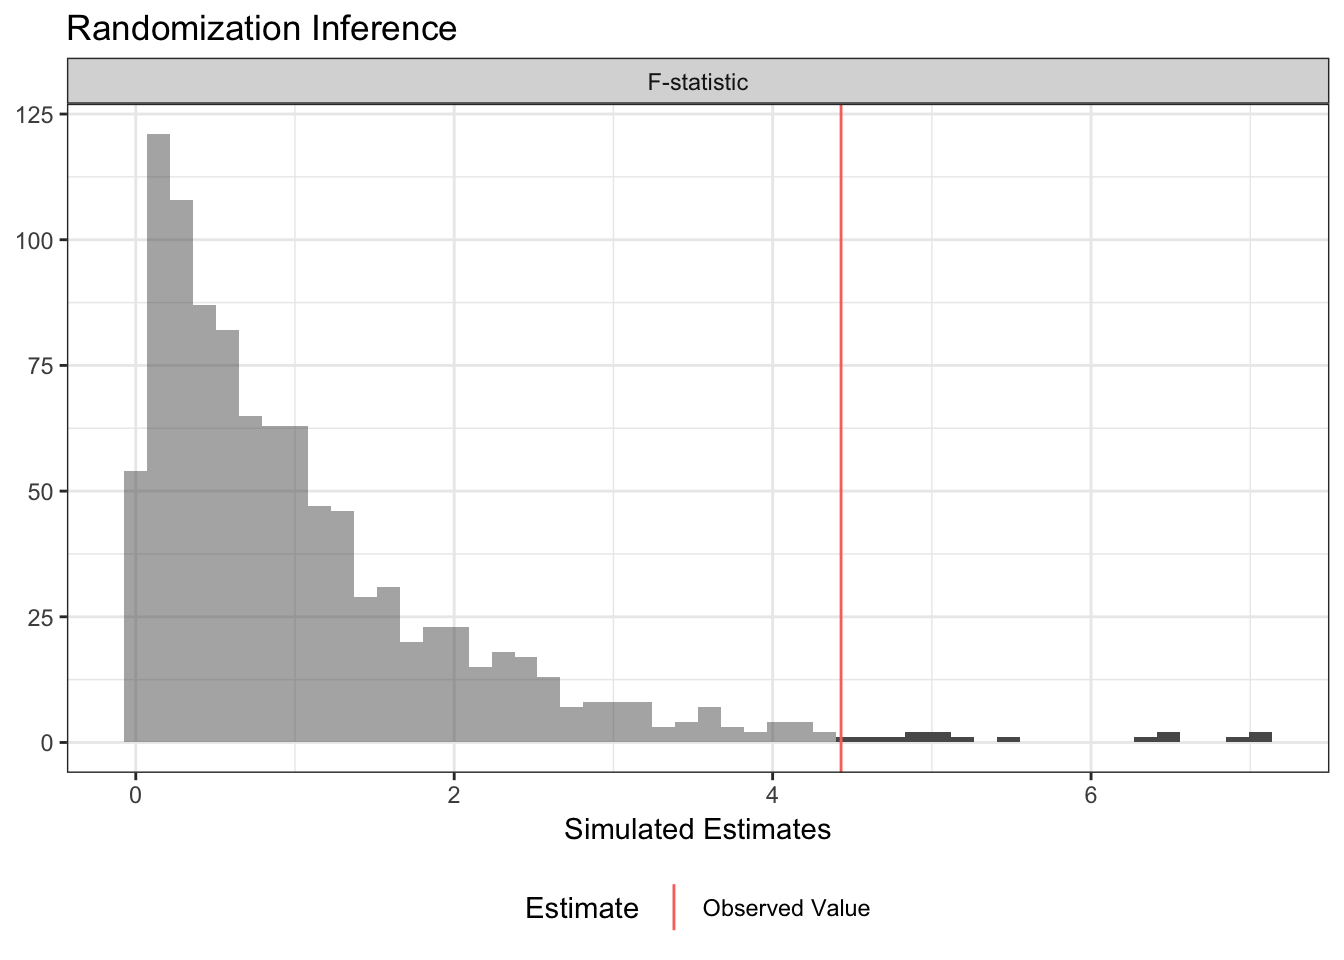
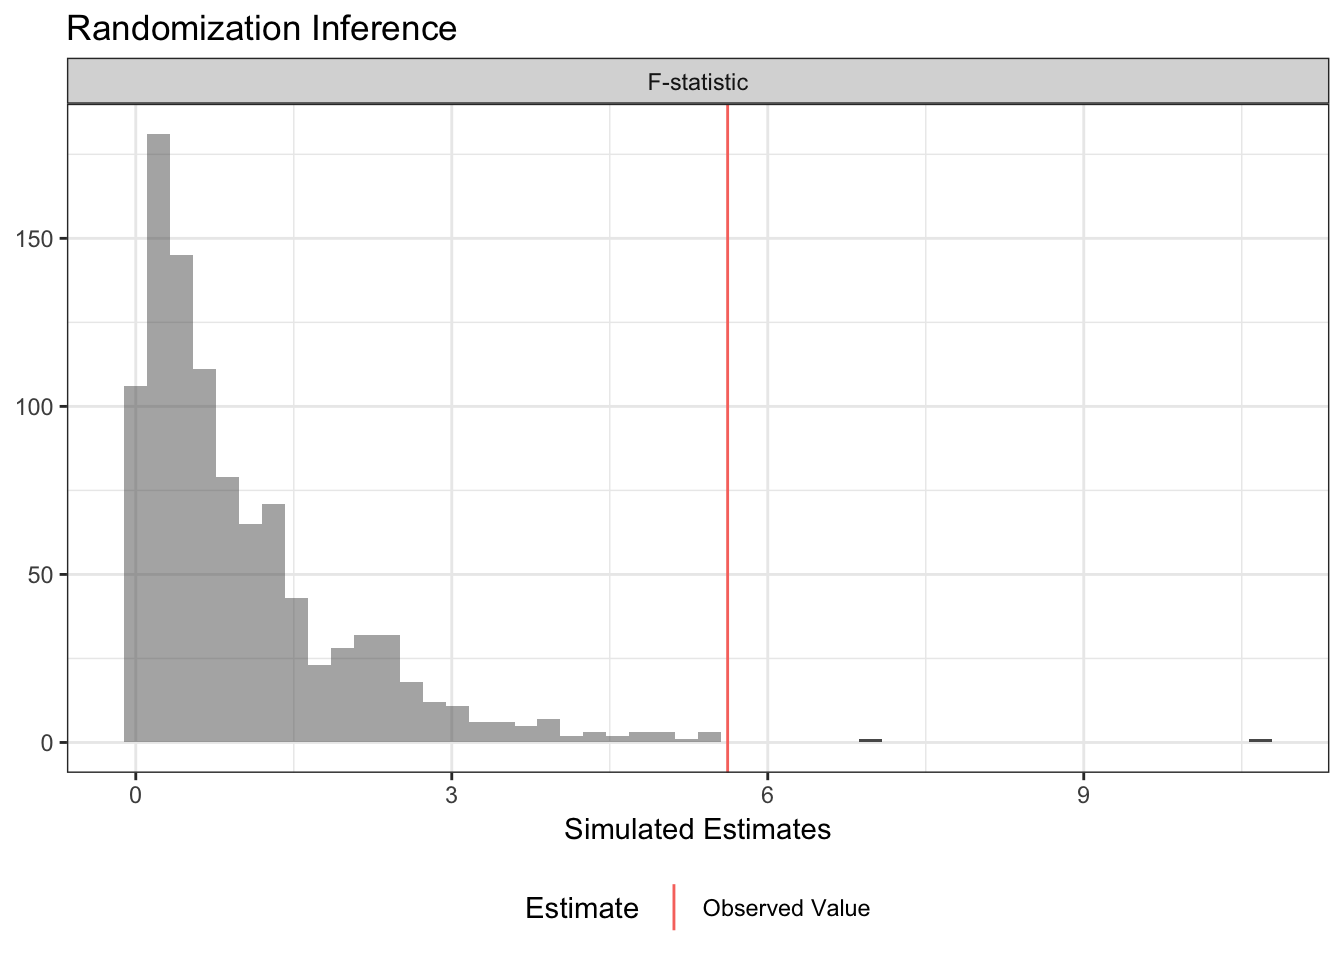
version bump

diff --git a/docs/articles/ri2_vignette.html b/docs/articles/ri2_vignette.html
@@ -68,7 +68,7 @@
       <h1>Randomization Inference with ri2</h1>
                         <h4 class="author">Alexander Coppock, Yale University</h4>
             
-            <h4 class="date">2018-01-25</h4>
+            <h4 class="date">2018-02-02</h4>
           </div>
 
     
@@ -204,7 +204,7 @@ ri2_out &lt;-
 <p><img src="ri2_vignette_files/figure-html/unnamed-chunk-4-1.png" width="672"></p>
 <div class="sourceCode"><pre class="sourceCode r"><code class="sourceCode r"><span class="kw">summary</span>(ri2_out)</code></pre></div>
 <pre><code>##   coefficient estimate two_tailed_p_value null_ci_lower null_ci_upper
-## 1 F-statistic 4.429772              0.015    0.03876176      3.948768</code></pre>
+## 1 F-statistic  5.61914              0.002    0.02486304      3.865209</code></pre>
 <div class="sourceCode"><pre class="sourceCode r"><code class="sourceCode r"><span class="co"># for comparison</span>
 <span class="kw">anova</span>(<span class="kw">lm</span>(Y <span class="op">~</span><span class="st"> </span><span class="dv">1</span>, <span class="dt">data =</span> dat), 
       <span class="kw">lm</span>(Y <span class="op">~</span><span class="st"> </span>Z, <span class="dt">data =</span> dat))</code></pre></div>
@@ -212,9 +212,9 @@ ri2_out &lt;-
 ## 
 ## Model 1: Y ~ 1
 ## Model 2: Y ~ Z
-##   Res.Df     RSS Df Sum of Sq      F  Pr(&gt;F)  
-## 1     99 101.310                              
-## 2     97  92.831  2    8.4788 4.4298 0.01442 *
+##   Res.Df    RSS Df Sum of Sq      F   Pr(&gt;F)   
+## 1     99 92.675                                
+## 2     97 83.053  2    9.6224 5.6191 0.004909 **
 ## ---
 ## Signif. codes:  0 '***' 0.001 '**' 0.01 '*' 0.05 '.' 0.1 ' ' 1</code></pre>
 </div>
@@ -234,7 +234,7 @@ dat &lt;-<span class="st"> </span><span class="kw">data.frame</span>(X, Y, Z)
 ate_hat &lt;-<span class="st"> </span><span class="kw">coef</span>(<span class="kw">lm</span>(Y <span class="op">~</span><span class="st"> </span>Z, <span class="dt">data =</span> dat))[<span class="dv">2</span>]
 ate_hat</code></pre></div>
 <pre><code>##         Z 
-## 0.1217316</code></pre>
+## 0.4233557</code></pre>
 <div class="sourceCode"><pre class="sourceCode r"><code class="sourceCode r">ri2_out &lt;-
 <span class="st">  </span><span class="kw"><a href="../reference/conduct_ri.html">conduct_ri</a></span>(
     <span class="dt">model_1 =</span> Y <span class="op">~</span><span class="st"> </span>Z <span class="op">+</span><span class="st"> </span>X, <span class="co"># restricted model</span>
@@ -248,7 +248,7 @@ ate_hat</code></pre></div>
 <p><img src="ri2_vignette_files/figure-html/unnamed-chunk-5-1.png" width="672"></p>
 <div class="sourceCode"><pre class="sourceCode r"><code class="sourceCode r"><span class="kw">summary</span>(ri2_out)</code></pre></div>
 <pre><code>##   coefficient estimate two_tailed_p_value null_ci_lower null_ci_upper
-## 1 F-statistic 13.99079                  0   0.001554498      5.430353</code></pre>
+## 1 F-statistic 3.073201              0.076   0.001493542      4.706473</code></pre>
 <div class="sourceCode"><pre class="sourceCode r"><code class="sourceCode r"><span class="co"># for comparison</span>
 <span class="kw">anova</span>(<span class="kw">lm</span>(Y <span class="op">~</span><span class="st"> </span>Z <span class="op">+</span><span class="st"> </span>X, <span class="dt">data =</span> dat),
       <span class="kw">lm</span>(Y <span class="op">~</span><span class="st"> </span>Z <span class="op">+</span><span class="st"> </span>X <span class="op">+</span><span class="st"> </span>Z<span class="op">*</span>X, <span class="dt">data =</span> dat))</code></pre></div>
@@ -256,9 +256,9 @@ ate_hat</code></pre></div>
 ## 
 ## Model 1: Y ~ Z + X
 ## Model 2: Y ~ Z + X + Z * X
-##   Res.Df    RSS Df Sum of Sq      F    Pr(&gt;F)    
-## 1     97 128.85                                  
-## 2     96 112.46  1    16.389 13.991 0.0003126 ***
+##   Res.Df    RSS Df Sum of Sq      F  Pr(&gt;F)  
+## 1     97 97.394                              
+## 2     96 94.373  1    3.0211 3.0732 0.08278 .
 ## ---
 ## Signif. codes:  0 '***' 0.001 '**' 0.01 '*' 0.05 '.' 0.1 ' ' 1</code></pre>
 </div>
@@ -285,7 +285,7 @@ test_fun &lt;-<span class="st"> </span><span class="cf">function</span>(data) {
 
 <span class="co"># confirm it works</span>
 <span class="kw">test_fun</span>(dat)</code></pre></div>
-<pre><code>## [1] 0.2397634</code></pre>
+<pre><code>## [1] 0.1720664</code></pre>
 <div class="sourceCode"><pre class="sourceCode r"><code class="sourceCode r">ri2_out &lt;-
 <span class="kw"><a href="../reference/conduct_ri.html">conduct_ri</a></span>(
   <span class="dt">test_function =</span> test_fun,
@@ -300,9 +300,9 @@ test_fun &lt;-<span class="st"> </span><span class="cf">function</span>(data) {
 <p><img src="ri2_vignette_files/figure-html/unnamed-chunk-6-1.png" width="672"></p>
 <div class="sourceCode"><pre class="sourceCode r"><code class="sourceCode r"><span class="kw">summary</span>(ri2_out)</code></pre></div>
 <pre><code>##             coefficient  estimate two_tailed_p_value null_ci_lower
-## 1 Custom Test Statistic 0.2397634                  0    -0.1332335
+## 1 Custom Test Statistic 0.1720664                  0    -0.1013325
 ##   null_ci_upper
-## 1     0.1327711</code></pre>
+## 1    0.09655501</code></pre>
 </div>
 <div id="balance-test" class="section level2">
 <h2 class="hasAnchor">
@@ -326,8 +326,8 @@ balance_fun &lt;-<span class="st"> </span><span class="cf">function</span>(data)
 
 <span class="co"># Confirm it works!</span>
 <span class="kw">balance_fun</span>(dat)</code></pre></div>
-<pre><code>##     value 
-## 0.9282366</code></pre>
+<pre><code>##    value 
+## 2.295495</code></pre>
 <div class="sourceCode"><pre class="sourceCode r"><code class="sourceCode r">ri2_out &lt;-
 <span class="st">  </span><span class="kw"><a href="../reference/conduct_ri.html">conduct_ri</a></span>(
   <span class="dt">test_function =</span> balance_fun,
@@ -341,10 +341,10 @@ balance_fun &lt;-<span class="st"> </span><span class="cf">function</span>(data)
 <div class="sourceCode"><pre class="sourceCode r"><code class="sourceCode r"><span class="kw">plot</span>(ri2_out)</code></pre></div>
 <p><img src="ri2_vignette_files/figure-html/unnamed-chunk-7-1.png" width="672"></p>
 <div class="sourceCode"><pre class="sourceCode r"><code class="sourceCode r"><span class="kw">summary</span>(ri2_out)</code></pre></div>
-<pre><code>##             coefficient  estimate two_tailed_p_value null_ci_lower
-## 1 Custom Test Statistic 0.9282366              0.438    0.05500923
+<pre><code>##             coefficient estimate two_tailed_p_value null_ci_lower
+## 1 Custom Test Statistic 2.295495              0.098    0.07466706
 ##   null_ci_upper
-## 1      3.164616</code></pre>
+## 1      3.379954</code></pre>
 <div class="sourceCode"><pre class="sourceCode r"><code class="sourceCode r"><span class="co"># For comparison</span>
 <span class="kw">summary</span>(<span class="kw">lm</span>(Z <span class="op">~</span><span class="st"> </span>X1 <span class="op">+</span><span class="st"> </span>X2 <span class="op">+</span><span class="st"> </span>X3, <span class="dt">data =</span> dat))</code></pre></div>
 <pre><code>## 
@@ -353,20 +353,20 @@ balance_fun &lt;-<span class="st"> </span><span class="cf">function</span>(data)
 ## 
 ## Residuals:
 ##      Min       1Q   Median       3Q      Max 
-## -0.66053 -0.48476 -0.04135  0.47530  0.68638 
+## -0.67796 -0.45944  0.06227  0.46615  0.74251 
 ## 
 ## Coefficients:
 ##             Estimate Std. Error t value Pr(&gt;|t|)    
-## (Intercept)  0.44739    0.10946   4.087 9.07e-05 ***
-## X1          -0.04112    0.05061  -0.812    0.419    
-## X2          -0.10585    0.10230  -1.035    0.303    
-## X3           0.03646    0.03174   1.149    0.253    
+## (Intercept)  0.47832    0.11131   4.297 4.15e-05 ***
+## X1           0.11600    0.05159   2.249   0.0268 *  
+## X2          -0.11542    0.09910  -1.165   0.2470    
+## X3           0.03042    0.02712   1.122   0.2647    
 ## ---
 ## Signif. codes:  0 '***' 0.001 '**' 0.01 '*' 0.05 '.' 0.1 ' ' 1
 ## 
-## Residual standard error: 0.5031 on 96 degrees of freedom
-## Multiple R-squared:  0.02819,    Adjusted R-squared:  -0.002179 
-## F-statistic: 0.9282 on 3 and 96 DF,  p-value: 0.4302</code></pre>
+## Residual standard error: 0.4929 on 96 degrees of freedom
+## Multiple R-squared:  0.06693,    Adjusted R-squared:  0.03777 
+## F-statistic: 2.295 on 3 and 96 DF,  p-value: 0.08265</code></pre>
 </div>
 </div>
 <div id="conclusion" class="section level1">

diff --git a/docs/reference/conduct_ri.html b/docs/reference/conduct_ri.html
@@ -156,7 +156,7 @@
     </tr>
     <tr>
       <th>permutation_matrix</th>
-      <td><p>An optional matrix of random assignmnets, typically created by <code>obtain_permutation_matrix</code>.</p></td>
+      <td><p>An optional matrix of random assignments, typically created by <code>obtain_permutation_matrix</code>.</p></td>
     </tr>
     <tr>
       <th>data</th>
@@ -201,7 +201,7 @@
                       <span class='kw'>data</span> <span class='kw'>=</span> <span class='no'>table_2.2</span>)
 
 <span class='fu'>summary</span>(<span class='no'>out</span>)</div><div class='output co'>#&gt;   coefficient estimate two_tailed_p_value null_ci_lower null_ci_upper
-#&gt; 1           d      6.5          0.3809524          -7.5            10</div><div class='input'><span class='fu'>plot</span>(<span class='no'>out</span>)</div><div class='img'><img src='conduct_ri-1.png' alt='' width='700' height='432.632880098887' /></div><div class='input'>
+#&gt; 1           d      6.5          0.3809524          -7.5            10</div><div class='input'><span class='fu'>plot</span>(<span class='no'>out</span>)</div><div class='img'><img src='conduct_ri-4.png' alt='' width='700' height='432.632880098887' /></div><div class='input'>
 <span class='co'># Randomization Inference for an Interaction</span>
 
 
@@ -225,7 +225,7 @@
     <span class='kw'>data</span> <span class='kw'>=</span> <span class='no'>dat</span>, <span class='kw'>sims</span> <span class='kw'>=</span> <span class='fl'>100</span>
   )
 
-<span class='fu'>plot</span>(<span class='no'>out</span>)</div><div class='img'><img src='conduct_ri-2.png' alt='' width='700' height='432.632880098887' /></div><div class='input'><span class='fu'>summary</span>(<span class='no'>out</span>)</div><div class='output co'>#&gt;   coefficient estimate two_tailed_p_value null_ci_lower null_ci_upper
+<span class='fu'>plot</span>(<span class='no'>out</span>)</div><div class='img'><img src='conduct_ri-5.png' alt='' width='700' height='432.632880098887' /></div><div class='input'><span class='fu'>summary</span>(<span class='no'>out</span>)</div><div class='output co'>#&gt;   coefficient estimate two_tailed_p_value null_ci_lower null_ci_upper
 #&gt; 1 F-statistic 18.08285                  0  0.0004719264      4.700194</div><div class='input'>
 
 <span class='co'># Randomization Inference for arbitrary test statistics</span>
@@ -259,7 +259,7 @@
     <span class='kw'>data</span> <span class='kw'>=</span> <span class='no'>dat</span>, <span class='kw'>sims</span> <span class='kw'>=</span> <span class='fl'>100</span>
   )
 
-<span class='fu'>plot</span>(<span class='no'>out</span>)</div><div class='img'><img src='conduct_ri-3.png' alt='' width='700' height='432.632880098887' /></div><div class='input'><span class='fu'>summary</span>(<span class='no'>out</span>)</div><div class='output co'>#&gt;             coefficient estimate two_tailed_p_value null_ci_lower null_ci_upper
+<span class='fu'>plot</span>(<span class='no'>out</span>)</div><div class='img'><img src='conduct_ri-6.png' alt='' width='700' height='432.632880098887' /></div><div class='input'><span class='fu'>summary</span>(<span class='no'>out</span>)</div><div class='output co'>#&gt;             coefficient estimate two_tailed_p_value null_ci_lower null_ci_upper
 #&gt; 1 Custom Test Statistic 2.243693               0.09  0.0008236761      4.464411</div><div class='input'>
 </div></pre>
   </div>

diff --git a/docs/index.html b/docs/index.html
@@ -83,6 +83,8 @@
 <li>Accommodation for arbitrary randomization schemes</li>
 <li>Accommodation for arbitrary (scalar) test statistics</li>
 </ol>
+<p>You can install ri2 is on CRAN</p>
+<div class="sourceCode"><pre class="sourceCode r"><code class="sourceCode r"><span class="kw">install.packages</span>(<span class="st">"ri2"</span>)</code></pre></div>
 <p>If you’d like to install the most current development release, you can use the following code:</p>
 <div class="sourceCode"><pre class="sourceCode r"><code class="sourceCode r"><span class="kw">install.packages</span>(<span class="st">"devtools"</span>)
 devtools<span class="op">::</span><span class="kw"><a href="http://www.rdocumentation.org/packages/devtools/topics/install_github">install_github</a></span>(<span class="st">"acoppock/ri2"</span>)</code></pre></div>
@@ -108,17 +110,22 @@ ri_out &lt;-
   )
 
 <span class="kw">plot</span>(ri_out)</code></pre></div>
-<p><img src="README-unnamed-chunk-3-1.png" width="672"></p>
+<p><img src="README-unnamed-chunk-4-1.png" width="672"></p>
 <div class="sourceCode"><pre class="sourceCode r"><code class="sourceCode r"><span class="kw">summary</span>(ri_out)
 <span class="co">#&gt;   coefficient  estimate two_tailed_p_value null_ci_lower null_ci_upper</span>
-<span class="co">#&gt; 1           Z 0.1047249              0.665    -0.4912596      0.509953</span></code></pre></div>
+<span class="co">#&gt; 1           Z 0.2310532              0.385    -0.5159464     0.5319302</span></code></pre></div>
 <p>The development of ri2 is supported by a Standards Grant from <a href="http://egap.org">EGAP</a>.</p>
 </div>
   </div>
 
   <div class="col-md-3 hidden-xs hidden-sm" id="sidebar">
     <h2 class="hasAnchor">
-<a href="#sidebar" class="anchor"></a>License</h2>
+<a href="#sidebar" class="anchor"></a>Links</h2>
+<ul class="list-unstyled">
+<li>Download from CRAN at <br><a href="https://cran.r-project.org/package=ri2">https://cran.r-project.org/package=ri2</a>
+</li>
+</ul>
+<h2>License</h2>
 <p><a href="https://opensource.org/licenses/mit-license.php">MIT</a> + file <a href="LICENSE.html">LICENSE</a></p>
 <h2>Developers</h2>
 <ul class="list-unstyled">

diff --git a/docs/articles/ri2_vs_ri.html b/docs/articles/ri2_vs_ri.html
@@ -68,7 +68,7 @@
       <h1>Comparing ri and ri2</h1>
                         <h4 class="author">Alexander Coppock, Yale University</h4>
             
-            <h4 class="date">2018-01-25</h4>
+            <h4 class="date">2018-02-02</h4>
           </div>
 
     

diff --git a/docs/articles/index.html b/docs/articles/index.html
@@ -88,7 +88,7 @@
       </header>
 
       <div class="page-header">
-  <h1>Articles <small>version&nbsp;0.1.0</small></h1>
+  <h1>Articles <small>version&nbsp;0.1.1</small></h1>
 </div>
 
 <div class="row">

diff --git a/docs/reference/index.html b/docs/reference/index.html
@@ -92,7 +92,7 @@
     <div class="page-header">
       <h1>
         Reference
-        <small>version&nbsp;0.1.0</small>
+        <small>version&nbsp;0.1.1</small>
       </h1>
     </div>
 

diff --git a/README.md b/README.md
@@ -14,6 +14,12 @@ Additionally, ri2 provides:
 1.  Accommodation for arbitrary randomization schemes
 2.  Accommodation for arbitrary (scalar) test statistics
 
+You can install ri2 is on CRAN
+
+``` r
+install.packages("ri2")
+```
+
 If you'd like to install the most current development release, you can use the following code:
 
 ``` r
@@ -47,12 +53,12 @@ ri_out <-
 plot(ri_out)
 ```
 
-![](README-unnamed-chunk-3-1.png)
+![](README-unnamed-chunk-4-1.png)
 
 ``` r
 summary(ri_out)
-#>   coefficient   estimate two_tailed_p_value null_ci_lower null_ci_upper
-#> 1           Z 0.08128592              0.762     -0.507129     0.4777298
+#>   coefficient  estimate two_tailed_p_value null_ci_lower null_ci_upper
+#> 1           Z 0.2954564              0.229    -0.4534083     0.4514941
 ```
 
 The development of ri2 is supported by a Standards Grant from [EGAP](http://egap.org).
